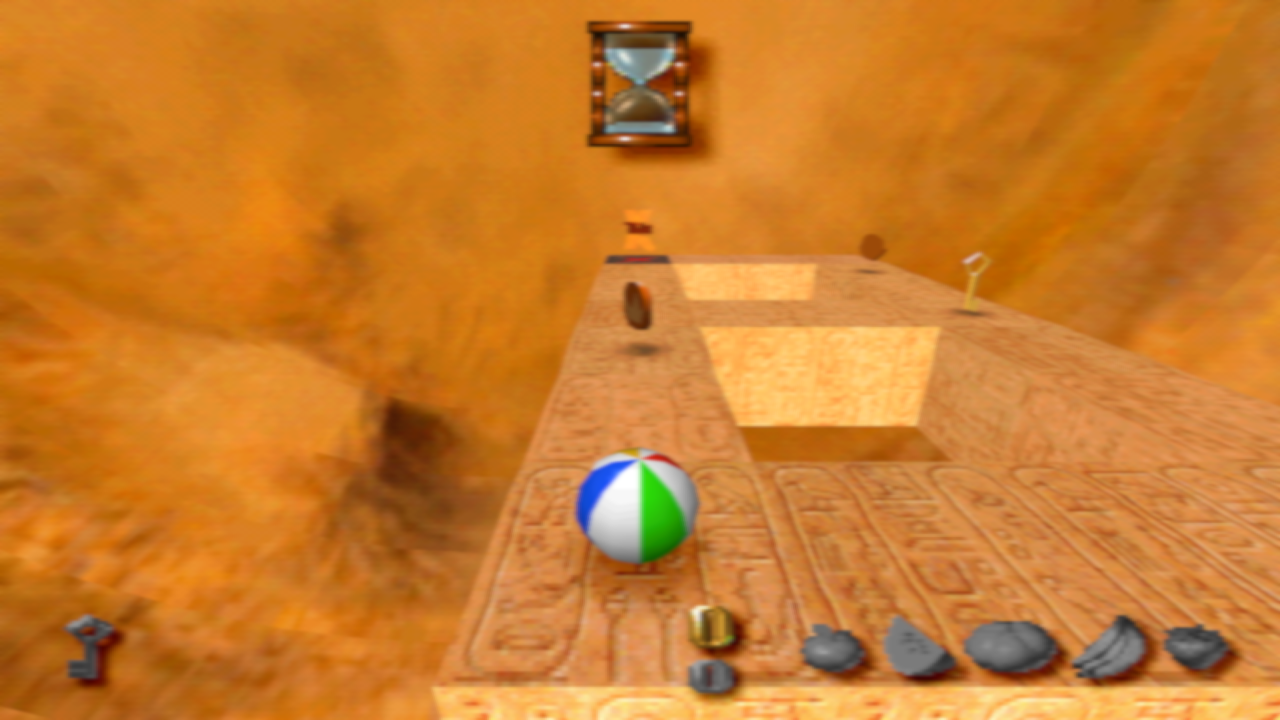
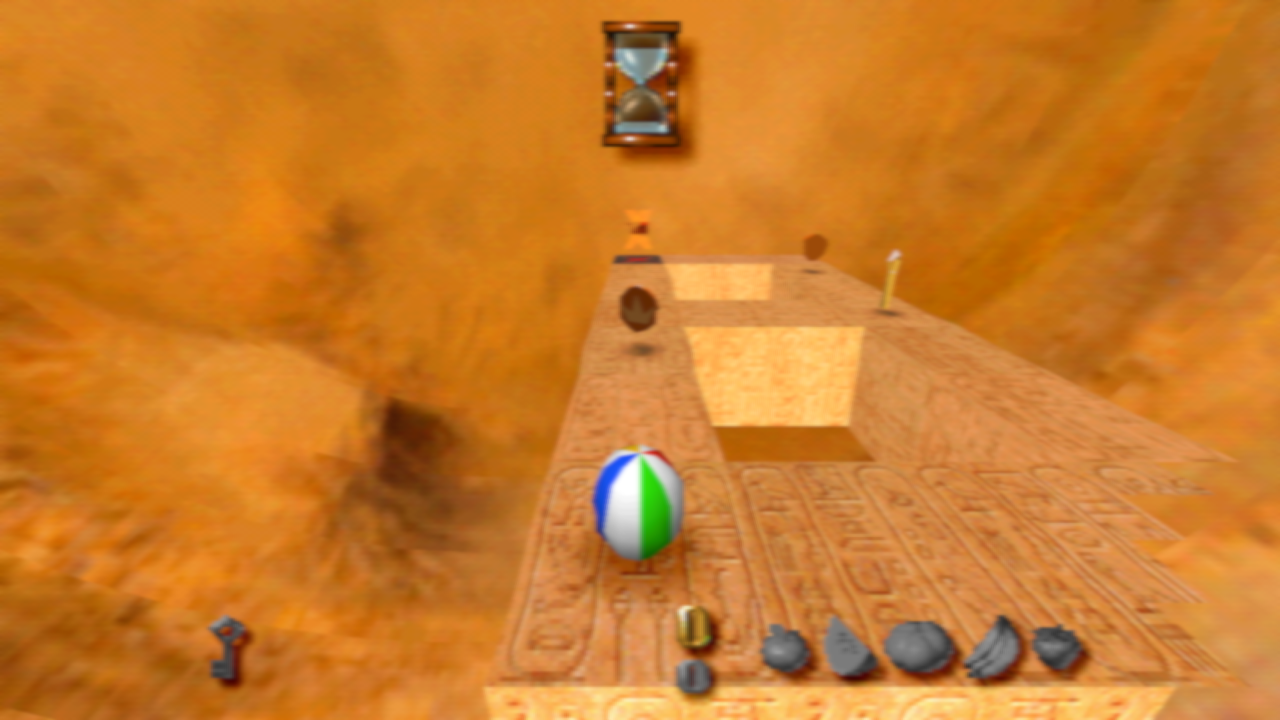
Widescreen: the menus and the HUD keep their proportions
In the widescreen mode only the 3D was squeezed (by the GTE), so the 2D -
the title, the menus, the HUD - came out stretched at 16:9. Now the GPU
squeezes the 2D towards the middle by 3/4 as well: a polygon is 3D if a
corner was stored by the GTE (the precise vertices' tracking, now kept on
in the widescreen mode), everything else is 2D; sprites become textured
quads. Only drawing into a screen-sized area is squeezed (not drawing
into textures), and not what spans the whole width (backgrounds, fades).
A picture of only 2D, such as the memory card screen, gets black bars
instead of the old content the game leaves at the sides.

diff --git a/source/src/psx/gpu.c b/source/src/psx/gpu.c
@@ -167,6 +167,8 @@ void gpu_set_texture_window(uint32_t e2)
     s.win_off_y = (e2 >> 15) & 0x1F;
 }
 
+static void wide_display(int x, int y);
+
 void gpu_set_display(int x, int y, int w, int h, int rgb24)
 {
     s.disp_x = x & 0x3FF;
@@ -174,6 +176,7 @@ void gpu_set_display(int x, int y, int w, int h, int rgb24)
     s.disp_w = w;
     s.disp_h = h;
     s.disp_rgb24 = rgb24;
+    wide_display(s.disp_x, s.disp_y);
 }
 
 void gpu_set_display_enabled(int enabled)
@@ -384,6 +387,140 @@ static void set_clut(Prim *p, uint32_t clut)
     p->clut_y = (clut >> 6) & 0x1FF;
 }
 
+/* ---- widescreen: the 2D squeezed --------------------------------------- */
+
+/*
+ * In the widescreen mode the GTE squeezes the 3D horizontally by 3/4 and
+ * the picture is shown at 16:9 (gte_set_widescreen()).  The 2D - menus,
+ * the HUD - never passes the GTE, so it is squeezed here, towards the
+ * middle of the drawing area, and looks as on a 4:3 screen again.  A
+ * polygon is 3D if a corner was stored by the GTE (pgxp.h keeps track),
+ * everything else is 2D.  Only drawing into a screen-sized area is
+ * squeezed (not the game's drawing into textures), and not what spans the
+ * whole width (backgrounds, fades: they still cover the screen).
+ */
+#define WIDE_NUM                3
+#define WIDE_DEN                4
+static int s_widescreen;
+
+void gpu_set_widescreen(int on)
+{
+    s_widescreen = on;
+    g_pgxp_track = on;
+}
+
+/*
+ * A picture of only 2D (e.g. the memory card screen) is squeezed into the
+ * middle, and what the game leaves at the sides is old: such a picture is
+ * shown with black bars.  For each picture buffer (drawing area) it is
+ * noted whether something as wide as the screen - 3D or a full-width
+ * shape - was drawn into it since it was last shown.
+ */
+#define WIDE_BUFFERS            4
+static struct {
+    int x, y;
+    int wide;
+} s_wide_buffers[WIDE_BUFFERS];
+static int s_wide_buffer_count;
+static int s_display_wide = 1;
+
+static void mark_wide(void)
+{
+    for (int i = 0; i < s_wide_buffer_count; i++) {
+        if (s_wide_buffers[i].x == s.clip_x1 && s_wide_buffers[i].y == s.clip_y1) {
+            s_wide_buffers[i].wide = 1;
+            return;
+        }
+    }
+    int i = s_wide_buffer_count < WIDE_BUFFERS ? s_wide_buffer_count++ : WIDE_BUFFERS - 1;
+    s_wide_buffers[i].x = s.clip_x1;
+    s_wide_buffers[i].y = s.clip_y1;
+    s_wide_buffers[i].wide = 1;
+}
+
+/* The display shows buffer (x, y): its note is taken, the others start anew. */
+static void wide_display(int x, int y)
+{
+    int found = 0;
+    for (int i = 0; i < s_wide_buffer_count; i++) {
+        if (s_wide_buffers[i].x == x && s_wide_buffers[i].y == y) {
+            s_display_wide = s_wide_buffers[i].wide;
+            found = 1;
+        } else {
+            s_wide_buffers[i].wide = 0;
+        }
+    }
+    if (!found) {
+        s_display_wide = 1;             /* (nothing drawn there: as it is) */
+    }
+}
+
+int gpu_display_wide(void)
+{
+    return !s_widescreen || s_display_wide;
+}
+
+/* TRUE if 2D drawn now is to be squeezed */
+static int squeeze_active(void)
+{
+    if (!s_widescreen) {
+        return 0;
+    }
+    int w = s.clip_x2 - s.clip_x1 + 1, h = s.clip_y2 - s.clip_y1 + 1;
+    return w == s.disp_w && h >= s.disp_h - 16 && h <= s.disp_h + 16;
+}
+
+static int squeeze_x(int x)
+{
+    int centre = (s.clip_x1 + s.clip_x2 + 1) / 2;
+    int d = x - centre;
+    return centre + (d >= 0 ? (d * WIDE_NUM + WIDE_DEN / 2) / WIDE_DEN
+                            : -((-d * WIDE_NUM + WIDE_DEN / 2) / WIDE_DEN));
+}
+
+/* a shape from min_x to max_x: as wide as the area (left alone)? */
+static int spans_width(int min_x, int max_x)
+{
+    return min_x <= s.clip_x1 && max_x >= s.clip_x2;
+}
+
+/* any of the polygon's corners stored by the GTE? */
+static int from_gte(const int *position_word, int count)
+{
+    PgxpVertex pv;
+    for (int k = 0; k < count; k++) {
+        int w = position_word[k];
+        if (s_cmd_src[w] && pgxp_lookup(s_cmd_src[w], s_cmd[w], &pv)) {
+            return 1;
+        }
+    }
+    return 0;
+}
+
+/* Squeezes a 2D polygon's corners (not one from the GTE or as wide as the area). */
+static void squeeze_polygon(Vertex *v, int count, const int *position_word)
+{
+    if (!squeeze_active()) {
+        return;
+    }
+    if (from_gte(position_word, count)) {
+        mark_wide();
+        return;
+    }
+    int min_x = v[0].x, max_x = v[0].x;
+    for (int k = 1; k < count; k++) {
+        min_x = v[k].x < min_x ? v[k].x : min_x;
+        max_x = v[k].x > max_x ? v[k].x : max_x;
+    }
+    if (spans_width(min_x, max_x)) {
+        mark_wide();
+        return;
+    }
+    for (int k = 0; k < count; k++) {
+        v[k].x = squeeze_x(v[k].x);
+    }
+}
+
 /* the current texture page for rectangles and untextured primitives */
 static void prim_from_state(Prim *p)
 {
@@ -464,6 +601,7 @@ static void command_polygon(const uint32_t *c)
     }
     prim_from_state(&p);
     p.dither = s.dither && (gouraud || (p.textured && !p.raw));
+    squeeze_polygon(v, count, position_word);
     draw_triangle(&p, &v[0], &v[1], &v[2]);
     if (quad) {
         draw_triangle(&p, &v[1], &v[2], &v[3]);
@@ -537,19 +675,71 @@ static void command_line(const uint32_t *c, int count)
     prim_from_state(&p);
     p.dither = s.dither && p.gouraud;
     set_color(&a, c[0]);
+    int first_word = i;
     set_position(&a, c[i++]);
+    int squeeze = squeeze_active() && !from_gte(&first_word, 1);
+    if (squeeze_active() && !squeeze) {
+        mark_wide();
+    }
+    if (squeeze) {
+        a.x = squeeze_x(a.x);
+    }
     while (i < count) {
         set_color(&b, p.gouraud ? c[i++] : c[0]);
         if (i >= count) {
             break;
         }
         set_position(&b, c[i++]);
+        if (squeeze) {
+            b.x = squeeze_x(b.x);
+        }
         draw_line(&p, &a, &b);
         a = b;
     }
 }
 
 /* ---- rectangles ------------------------------------------------------- */
+
+/* A 2D rectangle in the widescreen mode: narrower by 3/4, so its texels
+ * are drawn as a textured quad (two triangles) instead of one to one. */
+static void squeezed_rectangle(const Prim *rect, const Vertex *at, int w, int h, int u0, int v0)
+{
+    Prim p = *rect;
+    Vertex q[4];
+    int x0 = squeeze_x(at->x), x1 = squeeze_x(at->x + w);
+    int u1 = s.flip_x ? u0 - w : u0 + w, v1 = s.flip_y ? v0 - h : v0 + h;
+    for (int k = 0; k < 4; k++) {
+        q[k] = *at;
+        q[k].x = k & 1 ? x1 : x0;
+        q[k].y = at->y + (k & 2 ? h : 0);
+        q[k].u = k & 1 ? u1 : u0;
+        q[k].v = k & 2 ? v1 : v0;
+    }
+    if (x1 <= x0) {
+        return;
+    }
+    p.gouraud = 0;
+    p.dither = 0;
+    draw_triangle(&p, &q[0], &q[1], &q[2]);
+    draw_triangle(&p, &q[1], &q[2], &q[3]);
+    if (hires_scale()) {
+        HiresVertex hv[4];
+        GpuEnv e;
+        current_env(&e);
+        for (int k = 0; k < 4; k++) {
+            hv[k].x = (float) q[k].x;
+            hv[k].y = (float) q[k].y;
+            hv[k].z = 0;
+            hv[k].r = q[k].r;
+            hv[k].g = q[k].g;
+            hv[k].b = q[k].b;
+            hv[k].u = q[k].u;
+            hv[k].v = q[k].v;
+        }
+        hires_triangle(&p, &e, &hv[0], &hv[1], &hv[2]);
+        hires_triangle(&p, &e, &hv[1], &hv[2], &hv[3]);
+    }
+}
 
 static void command_rectangle(const uint32_t *c)
 {
@@ -577,6 +767,13 @@ static void command_rectangle(const uint32_t *c)
     } else {
         w = c[i] & 0x3FF;
         h = (c[i] >> 16) & 0x1FF;
+    }
+    if (squeeze_active() && w > 0 && h > 0) {
+        if (!spans_width(v.x, v.x + w - 1)) {
+            squeezed_rectangle(&p, &v, w, h, u0, v0);
+            return;
+        }
+        mark_wide();
     }
     if (hires_scale()) {
         GpuEnv e;

diff --git a/source/src/main_pc.cpp b/source/src/main_pc.cpp
@@ -270,6 +270,13 @@ static void draw_picture(int w, int h)
     }
     ui_draw_video(ImGui::GetBackgroundDrawList(), ImVec2(x0, y0), ImVec2(x1, y1),
                   g_settings_pc.video_filter, gpu_display_width(), gpu_display_lines());
+    if (!gpu_display_wide()) {
+        /* (widescreen, a picture of only 2D: squeezed into the middle 3/4) */
+        float bar = (x1 - x0) / 8;
+        ImDrawList *draw = ImGui::GetBackgroundDrawList();
+        draw->AddRectFilled(ImVec2(x0, y0), ImVec2(x0 + bar, y1), IM_COL32(0, 0, 0, 255));
+        draw->AddRectFilled(ImVec2(x1 - bar, y0), ImVec2(x1, y1), IM_COL32(0, 0, 0, 255));
+    }
 }
 
 /* The settings that take effect at once while the game runs. */
@@ -279,8 +286,10 @@ static void apply_game_settings(void)
     if (GetEnvironmentVariableA("RA_NATIVE", NULL, 0)) {
         gpu_set_enhancements(1, 0, 0);
         gte_set_widescreen(0);
+        gpu_set_widescreen(0);
     } else {
         gte_set_widescreen(g_settings_pc.aspect == ASPECT_WIDESCREEN);
+        gpu_set_widescreen(g_settings_pc.aspect == ASPECT_WIDESCREEN);
         gpu_set_enhancements(g_settings_pc.internal_scale, g_settings_pc.precise_vertices,
                              g_settings_pc.texture_filtering);
     }

diff --git a/source/src/psx/gpu.h b/source/src/psx/gpu.h
@@ -55,6 +55,13 @@ const uint32_t *gpu_display_rgba(int *w, int *h);
 /* The displayed picture's size in the console's pixels (320 x 240 here). */
 int gpu_display_width(void);
 
+/* The widescreen mode: the 2D is squeezed by 3/4 (the GTE squeezes the 3D). */
+void gpu_set_widescreen(int on);
+
+/* FALSE if the picture shown holds only squeezed 2D (black bars at the
+ * sides then: the game leaves old content there). */
+int gpu_display_wide(void);
+
 /* The display shows 24-bit pictures (the movies, from the MDEC). */
 int gpu_display_is_24bit(void);
 int gpu_display_lines(void);

diff --git a/source/src/launcher/launcher.cpp b/source/src/launcher/launcher.cpp
@@ -201,7 +201,7 @@ static void graphics_tab(void)
     row("Aspect ratio");
     ImGui::Combo("##aspect", &s->aspect, aspects, 3);
     if (s->aspect == ASPECT_WIDESCREEN) {
-        note("3D seen wider, menus and HUD stretched; the movies stay 4:3");
+        note("3D seen wider, menus and HUD as in 4:3; the movies stay 4:3");
     }
     row("Picture filter");
     ImGui::Combo("##filter", &s->video_filter, filters, 4);

diff --git a/source/src/psx/gte.c b/source/src/psx/gte.c
@@ -314,7 +314,7 @@ void gte_swc2(int reg, void *address)
 {
     uint32_t value = gte_mfc2(reg);
     memcpy(address, &value, 4);
-    if (g_pgxp_enabled && reg >= GTE_SXY0 && reg <= GTE_SXYP) {
+    if ((g_pgxp_enabled || g_pgxp_track) && reg >= GTE_SXY0 && reg <= GTE_SXYP) {
         int n = reg == GTE_SXYP ? 2 : reg - GTE_SXY0;
         if (s_precise_valid[n]) {
             pgxp_store(address, value, &s_precise[n]);

diff --git a/source/src/psx/pgxp.h b/source/src/psx/pgxp.h
@@ -23,6 +23,10 @@ typedef struct {
 
 extern int g_pgxp_enabled;
 
+/* The GTE's stores are kept track of also without precise vertices (the
+ * widescreen mode tells 3D from 2D by them). */
+extern int g_pgxp_track;
+
 void pgxp_store(const void *address, uint32_t value, const PgxpVertex *v);
 
 /* TRUE and *v if `address` was last stored from the GTE with `value`. */

diff --git a/source/src/psx/pgxp.c b/source/src/psx/pgxp.c
@@ -14,6 +14,7 @@ typedef struct {
 } PgxpSlot;
 
 int g_pgxp_enabled;
+int g_pgxp_track;
 static PgxpSlot s_slots[PGXP_SLOTS];
 
 static PgxpSlot *slot(const void *address)

diff --git a/README.md b/README.md
@@ -86,8 +86,8 @@ pause menu).
 - **Picture filters**: sharp pixels, bilinear, CRT, or a soft-TV filter
   (GTU-like).
 - **Widescreen (16:9)**, optional: the 3D world is seen wider and keeps its
-  proportions (the menus and the flat HUD pictures are stretched; the
-  movies stay 4:3).
+  proportions, the menus and the HUD keep theirs too (screens of only 2D,
+  and the movies, are shown 4:3).
 - **Window or borderless full screen**, any window size, 4:3, 16:9 or
   stretched, vsync.
 
